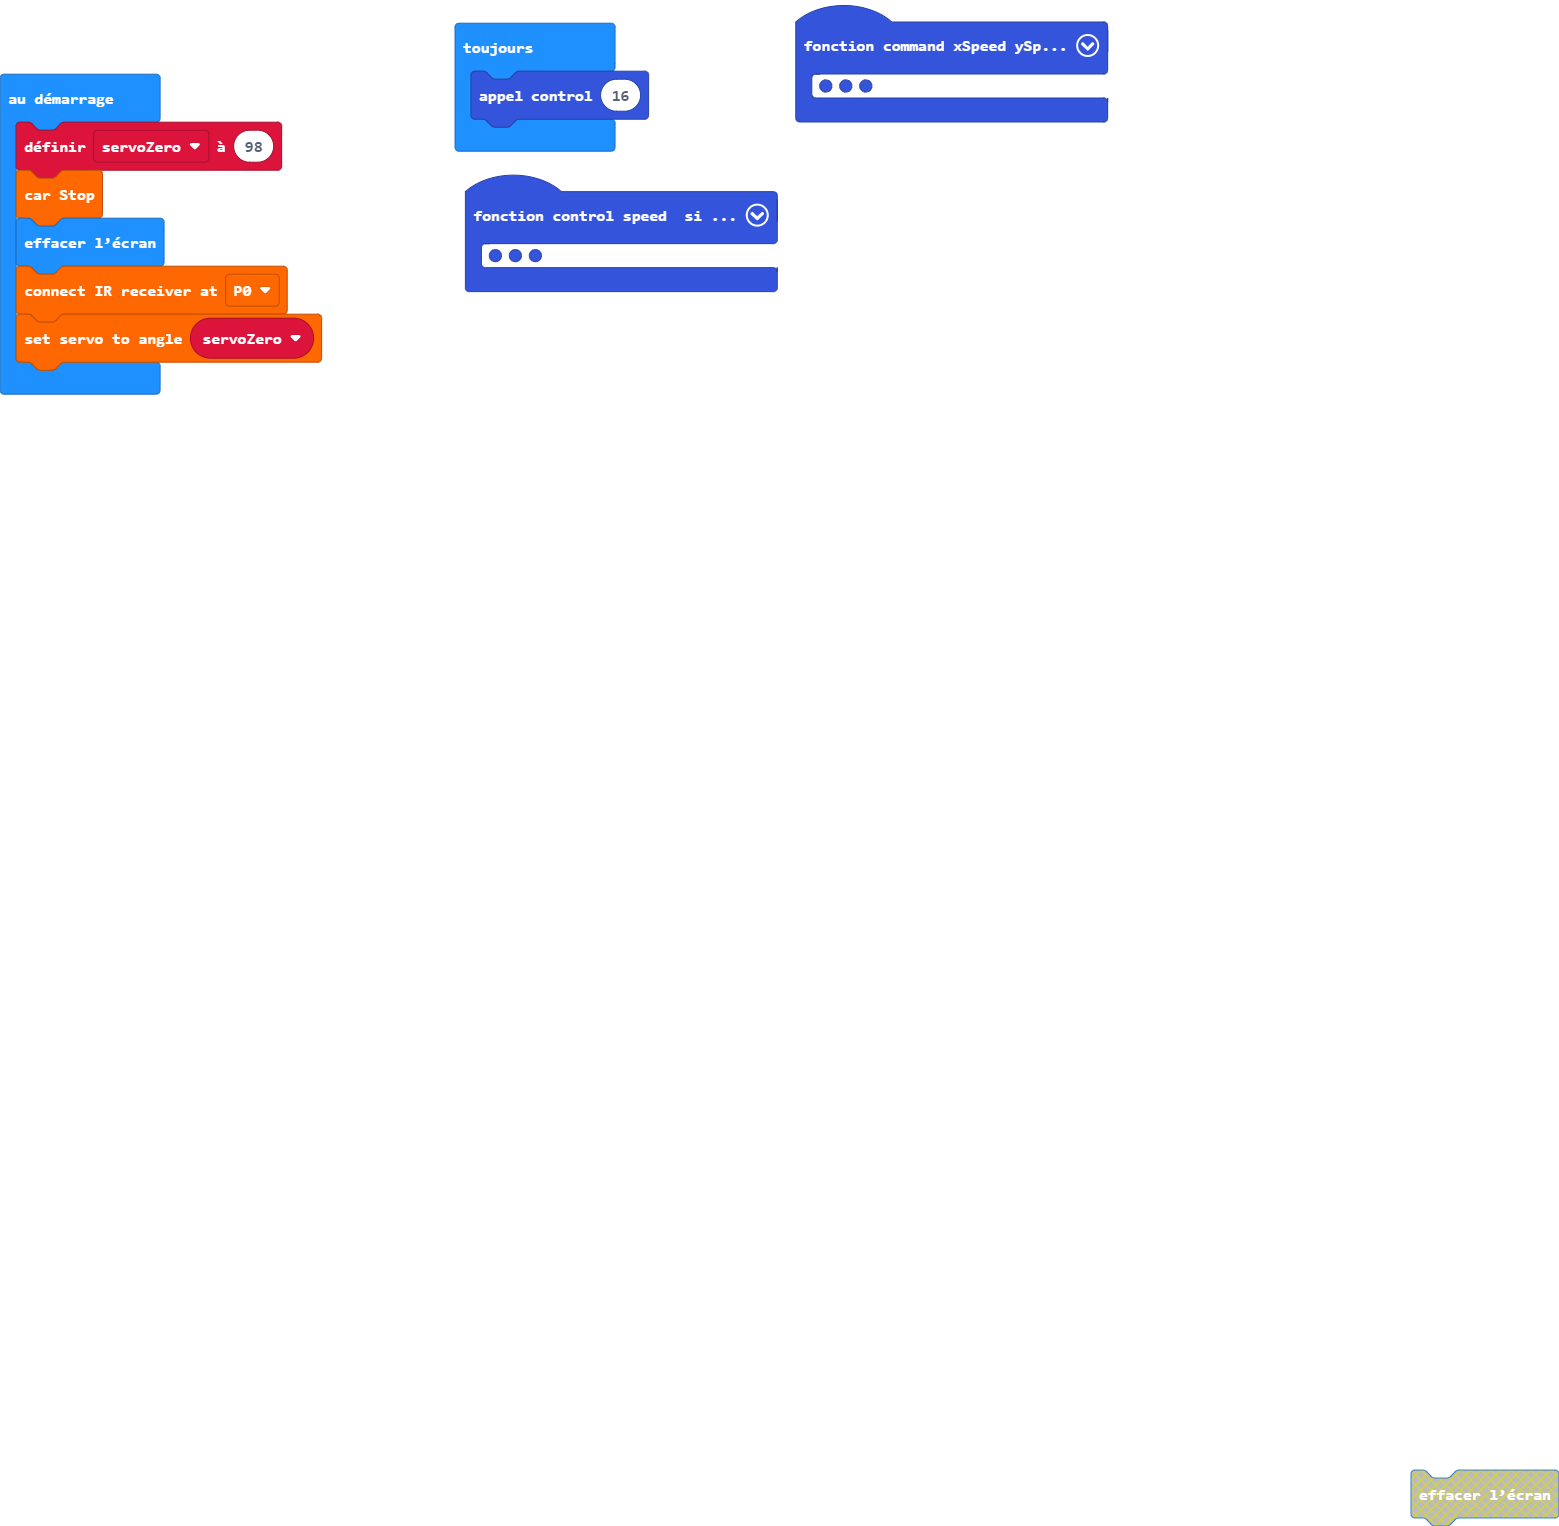
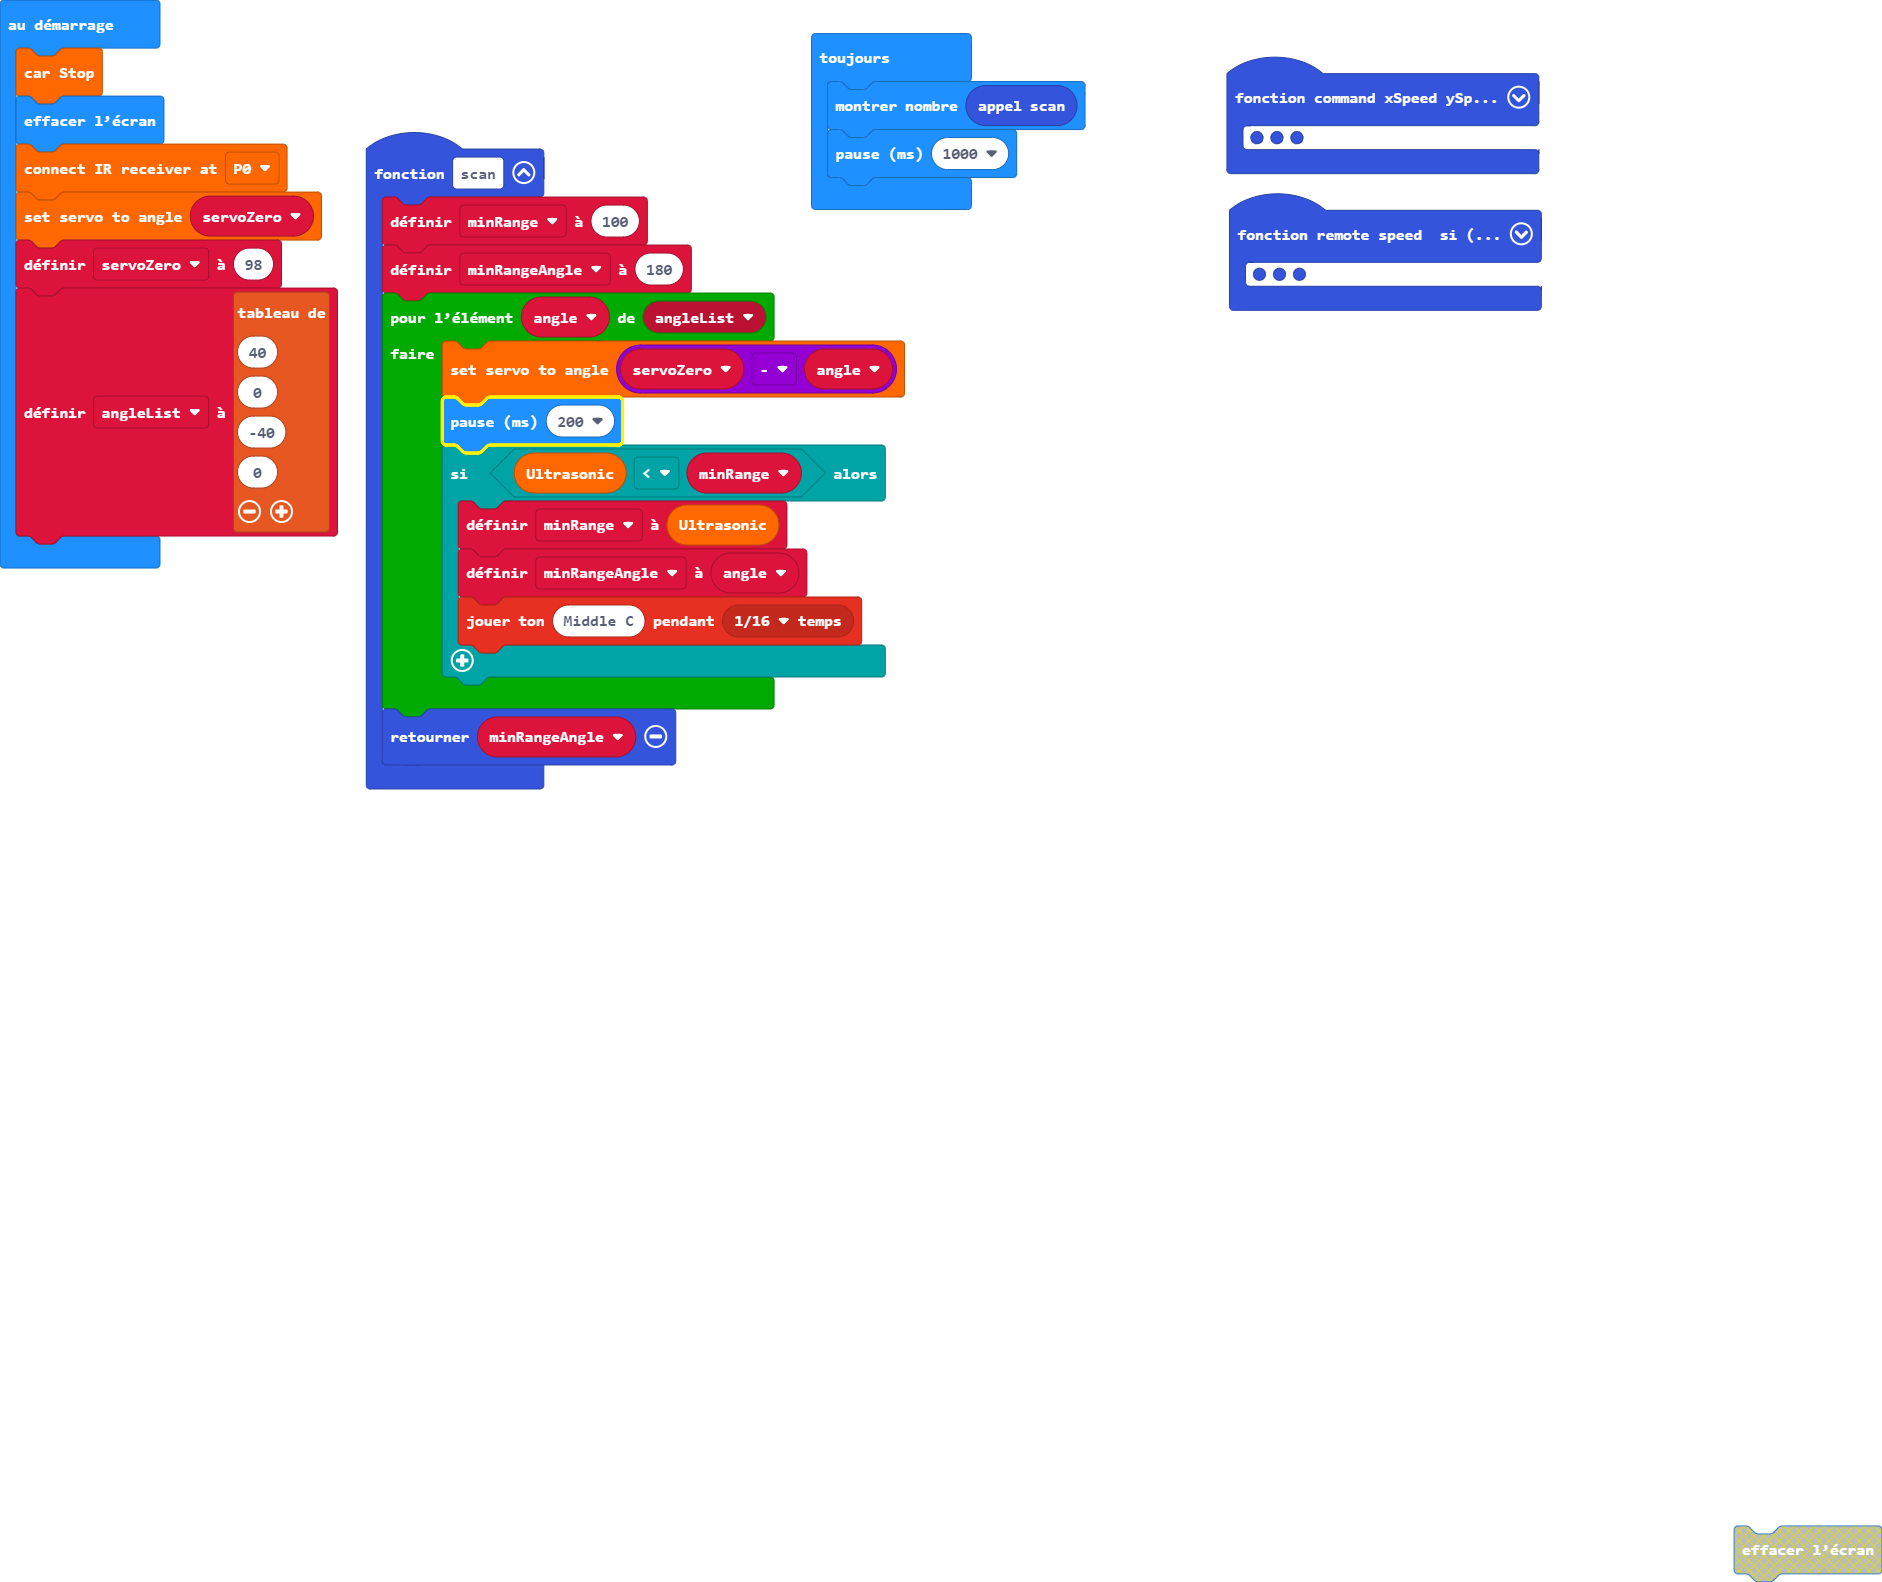
Scanne l'angle de la distance minimale

Changed region(s): [[0.0, 0.0, 0.8313, 0.5236], [0.8929, 0.9548, 1.0, 1.0]]

diff --git a/main.ts b/main.ts
@@ -1,4 +1,4 @@
-function control2 (speed: number) {
+function remote (speed: number) {
     if (irRemote.returnIrButton() == 0) {
         mecanumRobotV2.state()
         basic.showLeds(`
@@ -9,44 +9,36 @@ function control2 (speed: number) {
             . # # # .
             `)
     }
-    if (irRemote.returnIrButton() == irRemote.irButton(IrButton.Right)) {
-        basic.showIcon(IconNames.Happy)
-        command(20, 0, -30)
-    }
-    if (irRemote.returnIrButton() == irRemote.irButton(IrButton.Left)) {
-        basic.showIcon(IconNames.Sad)
-        command(20, 0, 30)
-    }
     if (irRemote.returnIrButton() == irRemote.irButton(IrButton.Number_1)) {
         basic.showArrow(ArrowNames.SouthEast)
-        command(20, -20, 0)
+        command(speed, 0 - speed, 0)
     }
     if (irRemote.returnIrButton() == irRemote.irButton(IrButton.Number_2)) {
         basic.showArrow(ArrowNames.South)
-        command(20, 0, 0)
+        command(speed, 0, 0)
     }
     if (irRemote.returnIrButton() == irRemote.irButton(IrButton.Number_3)) {
         basic.showArrow(ArrowNames.SouthWest)
-        command(20, 20, 0)
+        command(speed, speed, 0)
     }
     if (irRemote.returnIrButton() == irRemote.irButton(IrButton.Number_4)) {
         basic.showArrow(ArrowNames.East)
-        command(0, -20, 0)
+        command(0, 0 - speed, 0)
     }
     if (irRemote.returnIrButton() == irRemote.irButton(IrButton.Number_6)) {
-        command(0, 20, 0)
+        command(0, speed, 0)
         basic.showArrow(ArrowNames.West)
     }
     if (irRemote.returnIrButton() == irRemote.irButton(IrButton.Number_7)) {
-        command(-20, -20, 0)
+        command(0 - speed, 0 - speed, 0)
         basic.showArrow(ArrowNames.NorthEast)
     }
     if (irRemote.returnIrButton() == irRemote.irButton(IrButton.Number_8)) {
         basic.showArrow(ArrowNames.North)
-        command(-20, 0, 0)
+        command(0 - speed, 0, 0)
     }
     if (irRemote.returnIrButton() == irRemote.irButton(IrButton.Number_9)) {
-        command(-20, 20, 0)
+        command(0 - speed, speed, 0)
         basic.showArrow(ArrowNames.NorthWest)
     }
     if (irRemote.returnIrButton() == irRemote.irButton(IrButton.Hash)) {
@@ -57,7 +49,7 @@ function control2 (speed: number) {
             # . . . .
             . # # # .
             `)
-        command(0, 0, 20)
+        command(0, 0, speed)
     }
     if (irRemote.returnIrButton() == irRemote.irButton(IrButton.Star)) {
         basic.showLeds(`
@@ -67,8 +59,22 @@ function control2 (speed: number) {
             . . . . #
             . # # # .
             `)
-        command(0, 0, -20)
+        command(0, 0, 0 - speed)
     }
+}
+function scan () {
+    minRange = 100
+    minRangeAngle = 180
+    for (let angle of angleList) {
+        mecanumRobotV2.setServo(servoZero - angle)
+        basic.pause(200)
+        if (mecanumRobotV2.ultra() < minRange) {
+            minRange = mecanumRobotV2.ultra()
+            minRangeAngle = angle
+            music.playTone(262, music.beat(BeatFraction.Sixteenth))
+        }
+    }
+    return minRangeAngle
 }
 function command (xSpeed: number, ySpeed: number, rSpeed: number) {
     upperLeftSpeed = xSpeed + ySpeed + rSpeed
@@ -100,11 +106,22 @@ let lowerRightSpeed = 0
 let upperRightSpeed = 0
 let lowerLeftSpeed = 0
 let upperLeftSpeed = 0
-let servoZero = 98
+let minRangeAngle = 0
+let minRange = 0
+let angleList: number[] = []
+let servoZero = 0
 mecanumRobotV2.state()
 basic.clearScreen()
 irRemote.connectInfrared(DigitalPin.P0)
 mecanumRobotV2.setServo(servoZero)
+servoZero = 98
+angleList = [
+40,
+0,
+-40,
+0
+]
 basic.forever(function () {
-    control2(16)
+    basic.showNumber(scan())
+    basic.pause(1000)
 })
